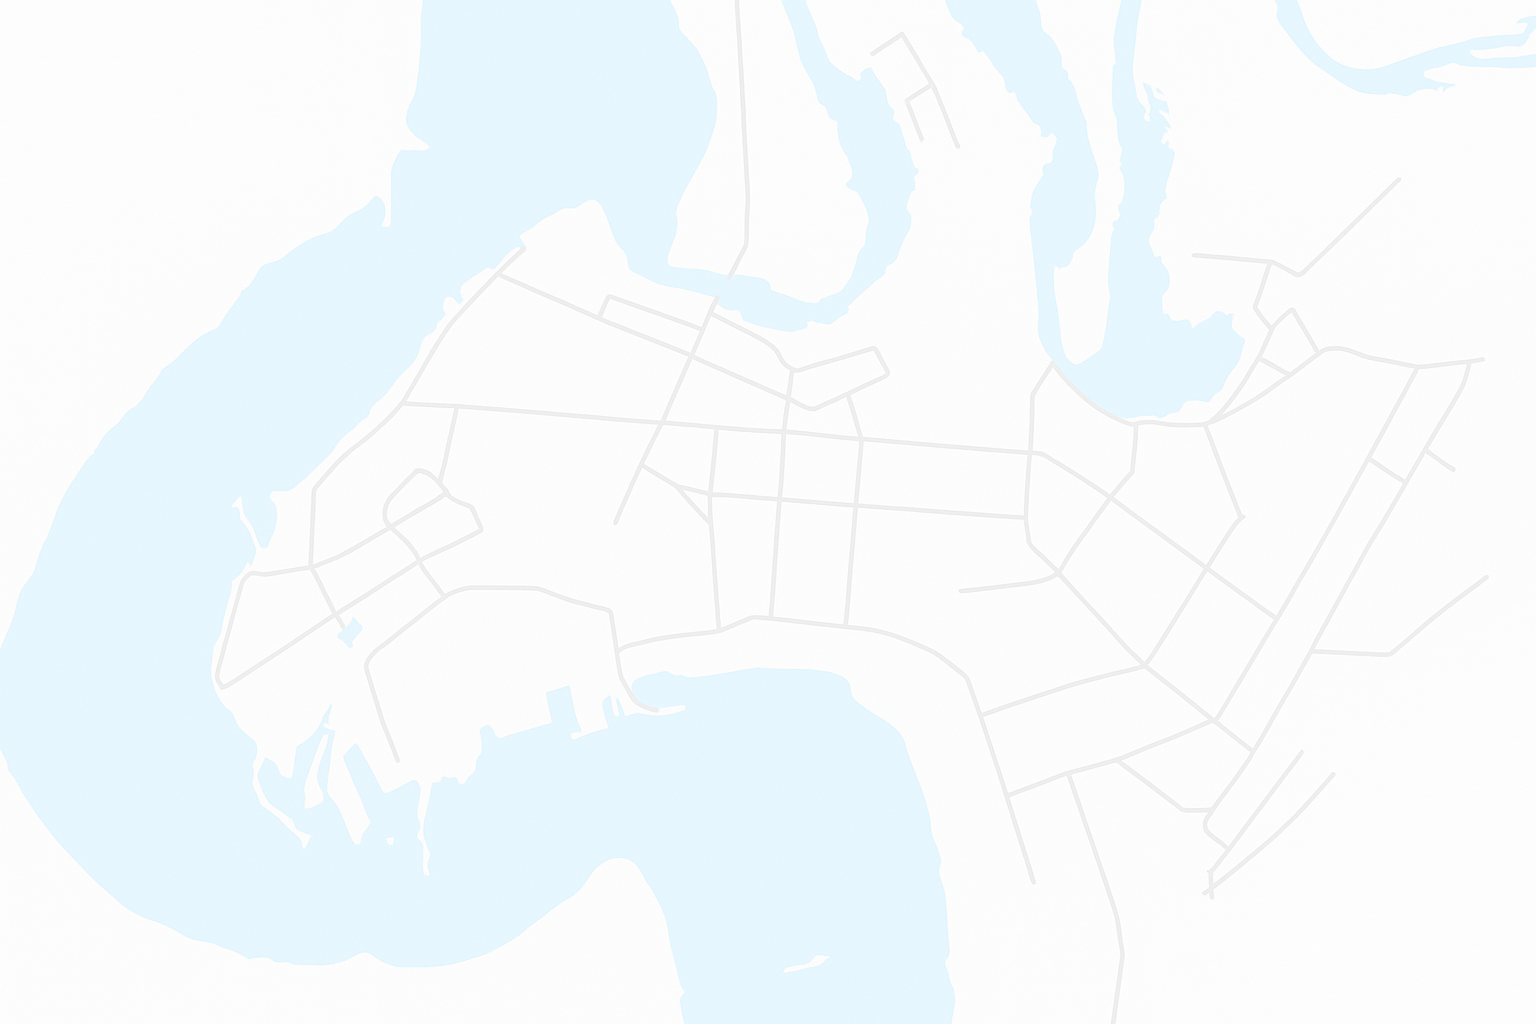
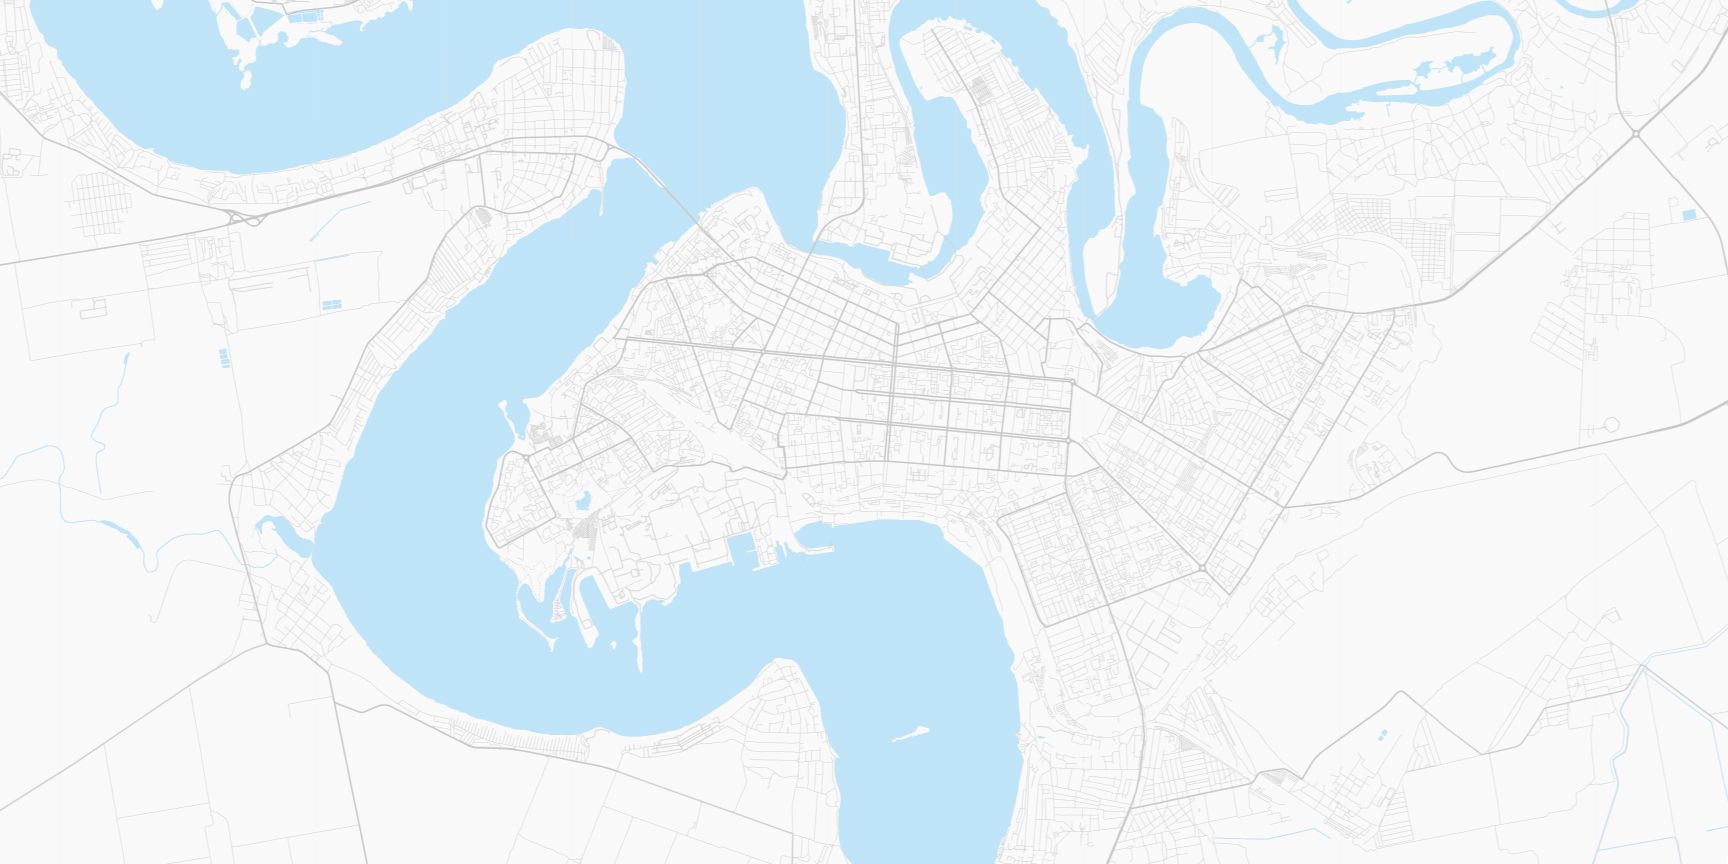
Update hero section styling and background image

diff --git a/frontend/src/app/components/Hero.tsx b/frontend/src/app/components/Hero.tsx
@@ -7,23 +7,44 @@ function Hero() {
         <Box
             sx={{
                 width: "100%",
-                py: 24,
+                py: 22,
                 px: 5,
+                marginBottom: 0,
                 backgroundImage: "url('/background_map.png')",
                 backgroundPosition: "center",
                 backgroundSize: "cover",
                 backgroundRepeat: "no-repeat",
             }}
         >
-            <Box sx={{ display: "flex", flexDirection: "column", alignItems: "center" }}>
-                <Typography sx={{ textAlign: "center" }} variant="h3" gutterBottom>
-                    Відкрий історії людей, чиї імена живуть у назвах вулиць міста
+            <Box
+                sx={{
+                    display: "flex",
+                    flexDirection: "column",
+                    alignItems: "center",
+                }}
+            >
+                <Typography
+                    sx={{ textAlign: "center", fontSize: { xs: 36, sm: 40, md: 42, lg: 44 } }}
+                    fontWeight="bold"
+                    variant="h3"
+                    gutterBottom
+                >
+                    Дізнайтесь історії людей, чиї імена носять вулиці Миколаєва
                 </Typography>
-                <Typography sx={{ textAlign: "center" }} variant="h4" color="text.secondary" gutterBottom>
-                    Інтерактивна карта з біографіями відомих постатей
+                <Typography
+                    sx={{ textAlign: "center", marginBottom: "64px", fontSize: { xs: 26, md: 28 }, fontWeight: "bold" }}
+                    variant="h4"
+                    color="text.secondary"
+                    gutterBottom
+                >
+                    Інтерактивна карта з
+                    <Box component="span" sx={{ color: "#2E7D32" }}>
+                        &nbsp;біографіями&nbsp;
+                    </Box>
+                    відомих постатей
                 </Typography>
 
-                <Button href="map" variant="contained" color="success" startIcon={<TravelExploreIcon />}>
+                <Button href="map" variant="contained" size="large" color="success" startIcon={<TravelExploreIcon />}>
                     Відкрити карту
                 </Button>
             </Box>
